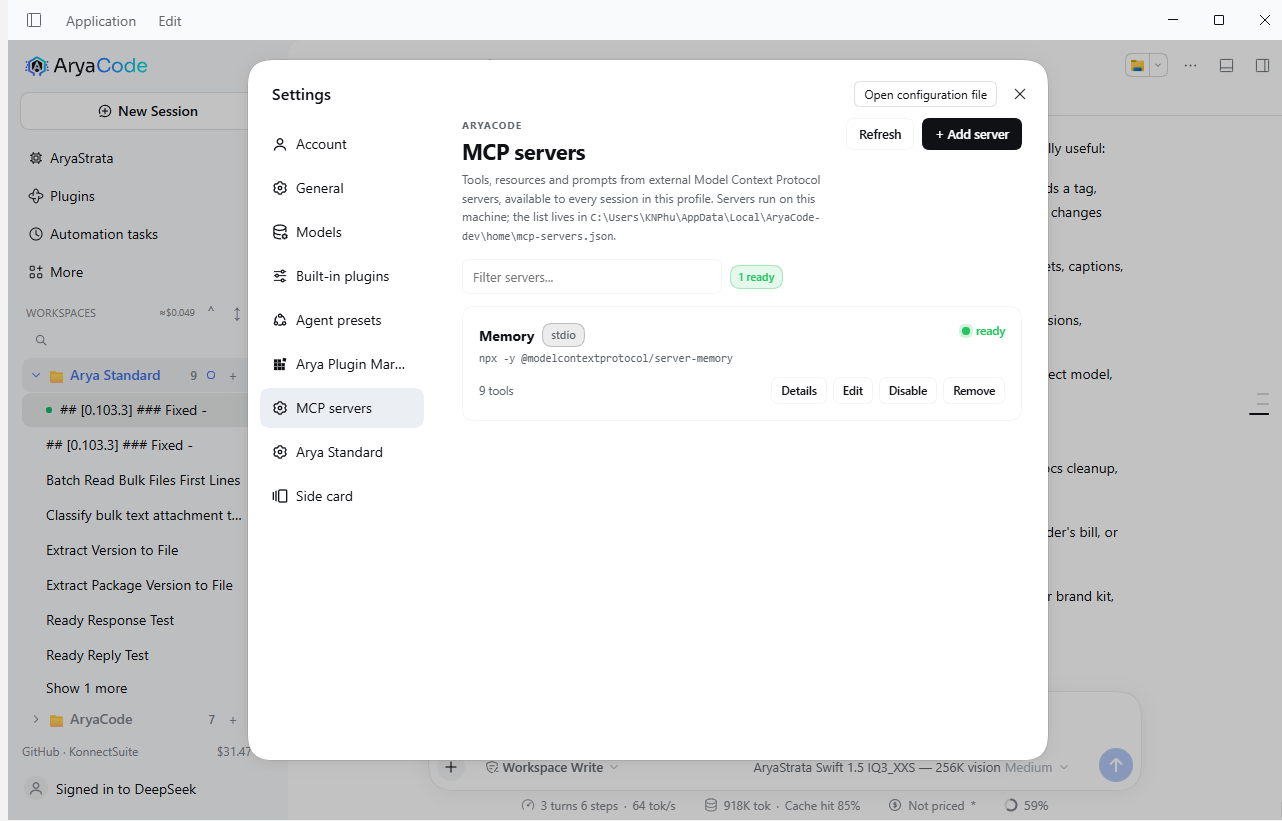
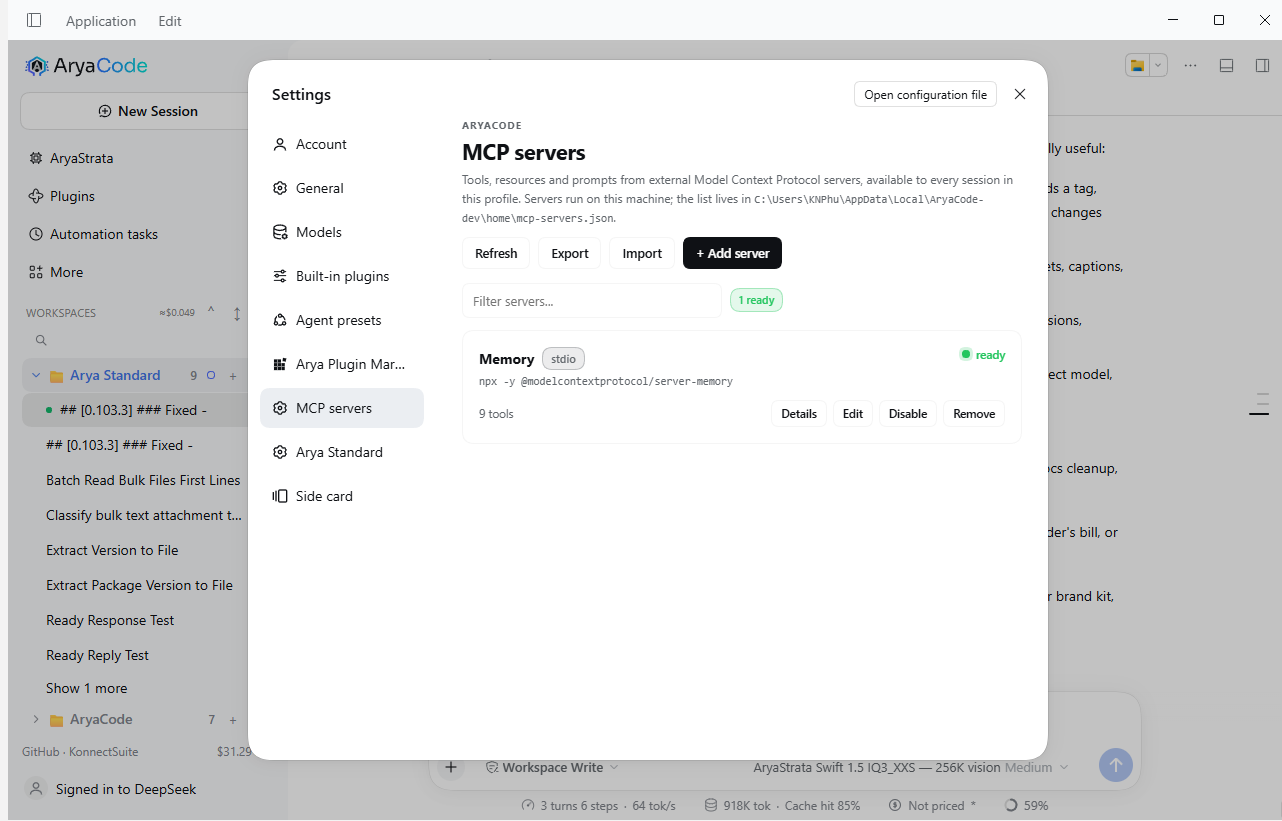
0.106.1: export renders in the page, and the captures match the shipped build
The clipboard API is not dependable from the settings window, so Export shows
the list in a selectable panel instead of writing invisible state. Refreshes
docs/mcp/ from the running 0.106.1 build.

diff --git a/lib/client.js b/lib/client.js
@@ -167,7 +167,7 @@ window.__ModuleLoader__.load({
     ]
     const ROW_ID = "polish"
     const ROW_KEY = "@aryacode/dsh-aryacode-polish" + '#' + ROW_ID
-    const CLIENT_VERSION = "0.105.9"
+    const CLIENT_VERSION = "0.106.1"
 
 /* html2canvas 1.4.1 — MIT, vendored from vendor/html2canvas.min.js.
  * A UMD build, so it assigns itself to globalThis; face.js reads it lazily. */
@@ -7487,6 +7487,7 @@ window.__ModuleLoader__.load({
       const [drawer, setDrawer] = React.useState(null)
       const [toast, setToast] = React.useState('')
       const [confirming, setConfirming] = React.useState(null)
+      const [exported, setExported] = React.useState('')
 
       const notify = message => {
         setToast(message)
@@ -7551,17 +7552,18 @@ window.__ModuleLoader__.load({
       }
 
       const exportAll = async () => {
+        // A panel, not the clipboard: the page cannot rely on clipboard permission,
+        // and the JSON should be visible before it is copied anywhere.
+        if (exported !== '') {
+          setExported('')
+          return
+        }
         const answer = await mcpPost({ action: 'export' })
         if (answer.ok === false) {
           notify(String(answer.error ?? 'Nothing to export.'))
           return
         }
-        try {
-          await navigator.clipboard.writeText(JSON.stringify(answer.store, null, 2))
-          notify('Copied ' + String((answer.store.servers ?? []).length) + ' server(s) as JSON.')
-        } catch {
-          notify('The clipboard refused the copy.')
-        }
+        setExported(JSON.stringify(answer.store, null, 2))
       }
 
       const toDraft = server => ({
@@ -7626,6 +7628,20 @@ window.__ModuleLoader__.load({
         data?.bridge === false ? mcpEl('div', {
           style: { ...MCP_CARD, marginTop: '12px', borderColor: mcpTint(MCP_THEME.warn, 40) },
         }, mcpEl('div', { style: MCP_EYEBROW }, 'Bridge unavailable'), mcpEl('p', { style: MCP_MUTED }, data.bridgeError)) : null,
+
+        exported === '' ? null : mcpEl('div', { style: { ...MCP_CARD, margin: '2px 0 12px' } },
+          mcpEl('div', { style: { display: 'flex', alignItems: 'center', justifyContent: 'space-between', gap: '8px', marginBottom: '8px' } },
+            mcpEl('div', { style: { ...MCP_EYEBROW, margin: 0 } }, 'Server list (JSON)'),
+            mcpEl('button', { type: 'button', style: MCP_BUTTON, onClick: () => setExported('') }, 'Hide')),
+          mcpEl('textarea', {
+            readOnly: true,
+            value: exported,
+            rows: 10,
+            onFocus: event => event.target.select(),
+            style: { ...MCP_INPUT, fontFamily: MCP_FONT_MONO, fontSize: '11px', resize: 'vertical' },
+          }),
+          mcpEl('p', { style: { ...MCP_MUTED, fontSize: '11px', marginTop: '6px' } },
+            'Focus selects everything; the file itself is ' + String(data?.storePath ?? 'mcp-servers.json') + '.')),
 
         mcpEl('div', { style: { display: 'flex', alignItems: 'center', gap: '8px', flexWrap: 'wrap', margin: '14px 0 12px' } },
           mcpEl('input', {

diff --git a/client/mcp.js b/client/mcp.js
@@ -725,6 +725,7 @@ function McpServersPage(props) {
   const [drawer, setDrawer] = React.useState(null)
   const [toast, setToast] = React.useState('')
   const [confirming, setConfirming] = React.useState(null)
+  const [exported, setExported] = React.useState('')
 
   const notify = message => {
     setToast(message)
@@ -789,17 +790,18 @@ function McpServersPage(props) {
   }
 
   const exportAll = async () => {
+    // A panel, not the clipboard: the page cannot rely on clipboard permission,
+    // and the JSON should be visible before it is copied anywhere.
+    if (exported !== '') {
+      setExported('')
+      return
+    }
     const answer = await mcpPost({ action: 'export' })
     if (answer.ok === false) {
       notify(String(answer.error ?? 'Nothing to export.'))
       return
     }
-    try {
-      await navigator.clipboard.writeText(JSON.stringify(answer.store, null, 2))
-      notify('Copied ' + String((answer.store.servers ?? []).length) + ' server(s) as JSON.')
-    } catch {
-      notify('The clipboard refused the copy.')
-    }
+    setExported(JSON.stringify(answer.store, null, 2))
   }
 
   const toDraft = server => ({
@@ -864,6 +866,20 @@ function McpServersPage(props) {
     data?.bridge === false ? mcpEl('div', {
       style: { ...MCP_CARD, marginTop: '12px', borderColor: mcpTint(MCP_THEME.warn, 40) },
     }, mcpEl('div', { style: MCP_EYEBROW }, 'Bridge unavailable'), mcpEl('p', { style: MCP_MUTED }, data.bridgeError)) : null,
+
+    exported === '' ? null : mcpEl('div', { style: { ...MCP_CARD, margin: '2px 0 12px' } },
+      mcpEl('div', { style: { display: 'flex', alignItems: 'center', justifyContent: 'space-between', gap: '8px', marginBottom: '8px' } },
+        mcpEl('div', { style: { ...MCP_EYEBROW, margin: 0 } }, 'Server list (JSON)'),
+        mcpEl('button', { type: 'button', style: MCP_BUTTON, onClick: () => setExported('') }, 'Hide')),
+      mcpEl('textarea', {
+        readOnly: true,
+        value: exported,
+        rows: 10,
+        onFocus: event => event.target.select(),
+        style: { ...MCP_INPUT, fontFamily: MCP_FONT_MONO, fontSize: '11px', resize: 'vertical' },
+      }),
+      mcpEl('p', { style: { ...MCP_MUTED, fontSize: '11px', marginTop: '6px' } },
+        'Focus selects everything; the file itself is ' + String(data?.storePath ?? 'mcp-servers.json') + '.')),
 
     mcpEl('div', { style: { display: 'flex', alignItems: 'center', gap: '8px', flexWrap: 'wrap', margin: '14px 0 12px' } },
       mcpEl('input', {

diff --git a/CHANGELOG.md b/CHANGELOG.md
@@ -1,3 +1,18 @@
+## [0.106.1]
+
+### Changed
+
+- Export shows the list in the page as a selectable JSON panel instead of writing the clipboard. The clipboard API is not reliable from the settings window, and a visible panel is verifiable: focus selects the text, Hide closes it, and the footer names the file.
+## [0.106.0]
+
+### Added
+
+- **Export / Import.** Export copies the entire server list as JSON; Import opens the Paste tab, which now saves an exported store or any JSON array in one step and reports how many servers landed.
+
+### Fixed
+
+- The page header stacks its title above the button row, so the description keeps a readable measure.
+- The confirmation line renders in the page flow; a fixed overlay is clipped by the settings dialog.
 ## [0.105.9]
 
 ### Fixed

diff --git a/docs/mcp-servers.md b/docs/mcp-servers.md
@@ -25,6 +25,10 @@ The tools the model actually sees, read from the live registry:
 
 ![The tools tab](mcp/mcp-05-tools.png)
 
+Export renders the whole list in the page, ready to select or copy:
+
+![The export panel](mcp/mcp-06-export.png)
+
 These captures come from the development app on 2026-10-31, version 0.105.4,
 with `@modelcontextprotocol/server-memory` installed through the catalog.
 ## What the page does
